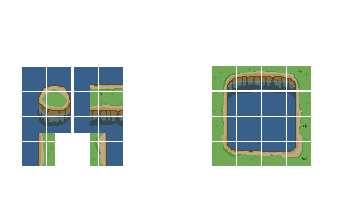
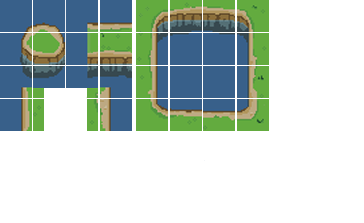
[Noa] trying some things

diff --git a/mylib/src/Tiles.cpp b/mylib/src/Tiles.cpp
@@ -1,6 +1,48 @@
 #include "Tiles.h"
 
-TilesMap::TilesMap(const MapRepresentation& repr) : m_width(0), m_height(0)
+MapRepresentation repr = {
+    "HHHHHHHHHHHHHHHHHHHHHHHHHHHHHHHHHHHHHHHHHHHHHHHHHHHHHHHHHHHHHHHHHHHHHHHHHHHHHHHHHHHHHHHHHHHH"
+  , "HHHHHHHHHHHHHHHHHHHHHHHHHHHHHHHHHHHHHHHHHHHHHHHHHHHHHHHHHHHHHHHHHHHHHHHHHHHHHHHHHHHHHHHHHHHH"
+  , "HHHHHHHHHHHHHHHHHHHHHHHHHHHHHHHHHHHHHHHHHHHHHHHHHHHHHHHHHHHHHHHHHHHHHHHHHHHHHHHHHHHHHHHHHHHH"
+  , "HHHHHHHHHHHHHHHHHHHHHHHHHHHHHHHHHHHHHHHHHHHHHHHHHHHHHHHHHHHHHHHHHHHHHHHHHHHHHHHHHHHHHHHHHHHH"
+  , "HHHHHHHHHHHHHHHHHHHHHHHHHHHHHHHHHHHHHHHHHHHHHHHHHHHHHHHHHHHHHHHHHHHHHHHHHHHHHHHHHHHHHHHHHHHH"
+  , "HHHHHHHHHHHHHHHHHHHHHHHHHHHHHHHHHHHHHHHHHHHHHHHHHHHHHHHHHHHHHHHHHHHHHHHHHHHHHHHHHHHHHHHHHHHH"
+  , "HHHHHHHHHHHHHHHHHHHHHHHHHHHHHHHHHHHHHHHHHHHHHHHHHHHHHHHHHHHHHHHHHHHHHHHHHHHHHHHHHHHHHHHHHHHH"
+  , "HHHHHHHHHHHHHHHHHHHHHHHHHHHHHHHHHHHHHHHHHHHHHHHHHHHHHHHHHHHHHHHHHHHHHHHHHHHHHHHHHHHHHHHHHHHH"
+  , "HHHHHHHHHHHHHHHHHHHHHHHHHHHHHHHHHHHHHHHHHHHHHHHHHHHHHHHHHHHHHHHHHHHHHHHHHHHHHHHHHHHHHHHHHHHH"
+  , "HHHHHHHHHHHHHHHHHHHHHHHHHHHHHHHHHHHHHHHHHHHHHHHHHHHHHHHHHHHHHHHHHHHHHHHHHHHHHHHHHHHHHHHHHHHH"
+  , "HHHHHHHHHHHHHHHHHHHHHHHHHHHHHHHHHHHHHHHHHHHHHHHHHHHHHHHHHHHHHHHHHHHHHHHHHHHHHHHHHHHHHHHHHHHH"
+  , "HHHHHHHHHHHHHHHHHHHHHHHHHHHHHHHHHHHHHHHHHHHHHHHHHHHHHHHHHHHHHHHHHHHHHHHHHHHHHHHHHHHHHHHHHHHH"
+  , "HHHHHHHHHHHHHHHHHHHHHHHHHHHHHHHHHHHHHHHHHHHHHHHHHHHHHHHHHHHHHHHHHHHHHHHHHHHHHHHHHHHHHHHHHHHH"
+  , "HHHHHHHHHHHHHHHHHHHHHHHHHHHHHHHHHHHHHHHHHHHHHHHHHHHHHHHHHHHHHHHHHHHHHHHHHHHHHHHHHHHHHHHHHHHH"
+  , "HHHHHHHHHHHHHHHHHHHHHHHHHHHHHHHHHHHHHHHHHHHHHHHHHHHHHHHHHHHHHHHHHHHHHHHHHHHHHHHHHHHHHHHHHHHH"
+  , "HHHHHHHHHHHHHHHHHHHHHHHHHHHHHHHHHHHHHHHHHHHHHHHHHHHHHHHHHHHHHHHHHHHHHHHHHHHHHHHHHHHHHHHHHHHH"
+  , "HHHHHHHHHHHHHHHHHHHHHHHHHHHHHHHHHHHHHHHHHHHHHHHHHHHHHHHHHHHHHHHHHHHHHHHHHHHHHHHHHHHHHHHHHHHH"
+  , "HHHHHHHHHHHHHHHHHHHHHHHHHHHHHHHHHHHHHHHHHHHHHHHHHHHHHHHHHHHHHHHHHHHHHHHHHHHHHHHHHHHHHHHHHHHH"
+  , "HHHHHHHHHHHHHHHHHHHHHHHHHHHHHHHHHHHHHHHHHHHHHHHHHHHHHHHHHHHHHHHHHHHHHHHHHHHHHHHHHHHHHHHHHHHH"
+  , "HHHHHHHHHHHHHHHHHHHHHHHHHHHHHHHHHHHHHHHHHHHHHHHHHHHHHHHHHHHHHHHHHHHHHHHHHHHHHHHHHHHHHHHHHHHH"
+  , "HHHHHHHHHHHHHHHHHHHHHHHHHHHHHHHHHHHHHHHHHHHHHHHHHHHHHHHHHHHHHHHHHHHHHHHHHHHHHHHHHHHHHHHHHHHH"
+  , "HHHHHHHHHHHHHHHHHHHHHHHHHHHHHHHHHHHHHHHHHHHHHHHHHHHHHHHHHHHHHHHHHHHHHHHHHHHHHHHHHHHHHHHHHHHH"
+  , "HHHHHHHHHHHHHHHHHHHHHHHHHHHHHHHHHHHHHHHHHHHHHHHHHHHHHHHHHHHHHHHHHHHHHHHHHHHHHHHHHHHHHHHHHHHH"
+  , "HHHHHHHHHHHHHHHHHHHHHHHHHHHHHHHHHHHHHHHHHHHHHHHHHHHHHHHHHHHHHHHHHHHHHHHHHHHHHHHHHHHHHHHHHHHH"
+  , "HHHHHHHHHHHHHHHHHHHHHHHHHHHHHHHHHHHHHHHHHHHHHHHHHHHHHHHHHHHHHHHHHHHHHHHHHHHHHHHHHHHHHHHHHHHH"
+  , "HHHHHHHHHHHHHHHHHHHHHHHHHHHHHHHHHHHHHHHHHHHHHHHHHHHHHHHHHHHHHHHHHHHHHHHHHHHHHHHHHHHHHHHHHHHH"
+  , "HHHHHHHHHHHHHHHHHHHHHHHHHHHHHHHHHHHHHHHHHHHHHHHHHHHHHHHHHHHHHHHHHHHHHHHHHHHHHHHHHHHHHHHHHHHH"
+  , "HHHHHHHHHHHHHHHHHHHHHHHHHHHHHHHHHHHHHHHHHHHHHHHHHHHHHHHHHHHHHHHHHHHHHHHHHHHHHHHHHHHHHHHHHHHH"
+  , "HHHHHHHHHHHHHHHHHHHHHHHHHHHHHHHHHHHHHHHHHHHHHHHHHHHHHHHHHHHHHHHHHHHHHHHHHHHHHHHHHHHHHHHHHHHH"
+  , "HHHHHHHHHHHHHHHHHHHHHHHHHHHHHHHHHHHHHHHHHHHHHHHHHHHHHHHHHHHHHHHHHHHHHHHHHHHHHHHHHHHHHHHHHHHH"
+  , "HHHHHHHHHHHHHHHHHHHHHHHHHHHHHHHHHHHHHHHHHHHHHHHHHHHHHHHHHHHHHHHHHHHHHHHHHHHHHHHHHHHHHHHHHHHH"
+  , "HHHHHHHHHHHHHHHHHHHHHHHHHHHHHHHHHHHHHHHHHHHHHHHHHHHHHHHHHHHHHHHHHHHHHHHHHHHHHHHHHHHHHHHHHHHH"
+};
+
+void View::update()
+{
+    float factor = 0.01f;
+    posX = (1.f - factor) * posX + factor * targetX;
+    posY = (1.f - factor) * posY + factor * targetY;
+}
+
+TilesMap::TilesMap(const MapRepresentation& repr)
 {
     m_width = static_cast<int>(repr[0].size());
     m_height = static_cast<int>(repr.size());
@@ -15,16 +57,15 @@ TilesMap::TilesMap(const MapRepresentation& repr) : m_width(0), m_height(0)
             getTile(row, col) = repr[row][col];
         }
     }
-
-    m_texture.loadFromFile("map/herbe.png");
-    }
+    m_texture.loadFromFile("map\\herbe.png");
+}
 
 sf::Vector2i TilesMap::getTileCoordinateInTexture(const TileType& tile)
 {
     static std::map<TileType, sf::Vector2i> tileMap = {
-        {'H', {0,  0} }
-      , {'F', {0,  3} }
-      , {'T', {12, 6} }
+        {'H', {5,  2} }
+      //, {'F', {0,  3} }
+      //, {'T', {12, 6} }
     };
 
     auto it = tileMap.find(tile);

diff --git a/mylib/include/Map.h b/mylib/include/Map.h
@@ -2,63 +2,6 @@
 
 #include "Tiles.h"
 
-using MapRepresentation = std::vector<std::string>;
-MapRepresentation repr = {
-    "TTTTTTHHHHHHHHHHHHHHHHHHHHHHHHHHHHHHHHHHHHHHHHHHHHHHHHHHHHHHHHHHHHHHHHHHHHHHHHHHHHHHHHHHHHHH"
-  , "TTHHHHHFHHHHHHHHHHHHHHHHHHHHHHHHHHHHHHHHHHHHHHHHHHHHHHHHHHHHHHHHHHHHHHHHHHHHHHHHHHHHHHHHHHHH"
-  , "THHFHHHHHHHHHHHHHHHHHHHHHHHHHHHHHHHHHHHHHHHHHHHHHHHHHHHHHHHHHHHHHHHHHHHHHHHHHHHHHHHHHHHHHHHH"
-  , "TTHHHHHHHHHHHHHHHHHHHHHHHHHHHHHHHHHHHHHHHHHHHHHHHHHHHHHHHHHHHHHHHHHHHHHHHHHHHHHHHHHHHHHHHHHH"
-  , "THHHHHHHHHHHHHHHHHHHHHHHHHHHHHHHHHHHHHHHHHHHHHHHHHHHHHHHHHHHHHHHHHHHHHHHHHHHHHHHHHHHHHHHHHHH"
-  , "THHHHHHHFHHHHHHHHHHHHHHHHHHHHHHHHHHHHHHHHHHHHHHHHHHHHHHHHHHHHHHHHHHHHHHHHHHHHHHHHHHHHHHHHHHH"
-  , "THHHHHHHHHHHHHHHHHHHHHHHHHHHHHHHHHHHHHHHHHHHHHHHHHHHHHHHHHHHHHHHHHHHHHHHHHHHHHHHHHHHHHHHHHHH"
-  , "THHHHHHHHHHHHHHHHHHHHHHHHHHHHHHHHHHHHHHHHHHHHHHHHHHHHHHHHHHHHHHHHHHHHHHHHHHHHHHHHHHHHHHHHHHH"
-  , "HHHHHHHHHHHHHHHHHHHHHHHHHHHHHHHHHHHHHHHHHHHHHHHHHHHHHHHHHHHHHHHHHHHHHHHHHHHHHHHHHHHHHHHHHHHH"
-  , "HHHHHHHHHHHHHHHHHHHHHHHHHHHHHHHHHHHHHHHHHHHHHHHHHHHHHHHHHHHHHHHHHHHHHHHHHHHHHHHHHHHHHHHHHHHH"
-  , "HHHHHHHHHHHHHHHHHHHHHHHHHHHHHHHHHHHHHHHHHHHHHHHHHHHHHHHHHHHHHHHHHHHHHHHHHHHHHHHHHHHHHHHHHHHH"
-  , "HHHHHHHHHHHHHHHHHHHHHHHHHHHHHHHHHHHHHHHHHHHHHHHHHHHHHHHHHHHHHHHHHHHHHHHHHHHHHHHHHHHHHHHHHHHH"
-  , "HHHHHHHHHHHHHHHHHHHHHHHHHHHHHHHHHHHHHHHHHHHHHHHHHHHHHHHHHHHHHHHHHHHHHHHHHHHHHHHHHHHHHHHHHHHH"
-  , "HHHHHHHHHHHHHHHHHHHHHHHHHHHHHHHHHHHHHHHHHHHHHHHHHHHHHHHHHHHHHHHHHHHHHHHHHHHHHHHHHHHHHHHHHHHH"
-  , "HHHHHHHHHHHHHHHHHHHHHHHHHHHHHHHHHHHHHHHHHHHHHHHHHHHHHHHHHHHHHHHHHHHHHHHHHHHHHHHHHHHHHHHHHHHH"
-  , "HHHHHHHHHHHHHHHHHHHHHHHHHHHHHHHHHHHHHHHHHHHHHHHHHHHHHHHHHHHHHHHHHHHHHHHHHHHHHHHHHHHHHHHHHHHH"
-  , "HHHHHHHHHHHHHHHHHHHHHHHHHHHHHHHHHHHHHHHHHHHHHHHHHHHHHHHHHHHHHHHHHHHHHHHHHHHHHHHHHHHHHHHHHHHH"
-  , "HHHHHHHHHHHHHHHHHHHHHHHHHHHHHHHHHHHHHHHHHHHHHHHHHHHHHHHHHHHHHHHHHHHHHHHHHHHHHHHHHHHHHHHHHHHH"
-  , "HHHHHHHHHHHHHHHHHHHHHHHHHHHHHHHHHHHHHHHHHHHHHHHHHHHHHHHHHHHHHHHHHHHHHHHHHHHHHHHHHHHHHHHHHHHH"
-  , "HHHHHHHHHHHHHHHHHHHHHHHHHHHHHHHHHHHHHHHHHHHHHHHHHHHHHHHHHHHHHHHHHHHHHHHHHHHHHHHHHHHHHHHHHHHH"
-  , "HHHHHHHHHHHHHHHHHHHHHHHHHHHHHHHHHHHHHHHHHHHHHHHHHHHHHHHHHHHHHHHHHHHHHHHHHHHHHHHHHHHHHHHHHHHH"
-  , "HHHHHHHHHHHHHHHHHHHHHHHHHHHHHHHHHHHHHHHHHHHHHHHHHHHHHHHHHHHHHHHHHHHHHHHHHHHHHHHHHHHHHHHHHHHH"
-  , "HHHHHHHHHHHHHHHHHHHHHHHHHHHHHHHHHHHHHHHHHHHHHHHHHHHHHHHHHHHHHHHHHHHHHHHHHHHHHHHHHHHHHHHHHHHH"
-  , "HHHHHHHHHHHHHHHHHHHHHHHHHHHHHHHHHHHHHHHHHHHHHHHHHHHHHHHHHHHHHHHHHHHHHHHHHHHHHHHHHHHHHHHHHHHH"
-  , "HHHHHHHHHHHHHHHHHHHHHHHHHHHHHHHHHHHHHHHHHHHHHHHHHHHHHHHHHHHHHHHHHHHHHHHHHHHHHHHHHHHHHHHHHHHH"
-  , "HHHHHHHHHHHHHHHHHHHHHHHHHHHHHHHHHHHHHHHHHHHHHHHHHHHHHHHHHHHHHHHHHHHHHHHHHHHHHHHHHHHHHHHHHHHH"
-  , "HHHHHHHHHHHHHHHHHHHHHHHHHHHHHHHHHHHHHHHHHHHHHHHHHHHHHHHHHHHHHHHHHHHHHHHHHHHHHHHHHHHHHHHHHHHH"
-  , "HHHHHHHHHHHHHHHHHHHHHHHHHHHHHHHHHHHHHHHHHHHHHHHHHHHHHHHHHHHHHHHHHHHHHHHHHHHHHHHHHHHHHHHHHHHH"
-  , "HHHHHHHHHHHHHHHHHHHHHHHHHHHHHHHHHHHHHHHHHHHHHHHHHHHHHHHHHHHHHHHHHHHHHHHHHHHHHHHHHHHHHHHHHHHT"
-  , "HHHHHHHHHHHHHHHHHHHHHHHHHHHHHHHHHHHHHHHHHHHHHHHHHHHHHHHHHHHHHHHHHHHHHHHHHHHHHHHHHHHHHHHHHFFT"
-  , "HHHHHHHHHHHHHHHHHHHHHHHHHHHHHHHHHHHHHHHHHHHHHHHHHHHHHHHHHHHHHHHHHHHHHHHHHHHHHHHHHHHHHHHHHFFT"
-  , "HHHHHHHHHHHHHHHHHHHHHHHHHHHHHHHHHHHHHHHHHHHHHHHHHHHHHHHHHHHHHHHHHHHHHHHHHHHHHHHHHHHHHHHHTTTT"
-};
-
-
-
-class View
-{
-public:
-    View(float width_, float height_, float posX_, float posY_) : width(width_), height(height_), posX(posX_), posY(posY_), targetX(posX_), targetY(posY_)
-    {}
-
-    void update();
-
-public:
-    float width;
-    float height;
-    float posX;
-    float posY;
-    float targetX;
-    float targetY;
-    float scale = 1.0f;
-};
-
-
 //class MapLayer
 //{
 //public:

diff --git a/mylib/include/Tiles.h b/mylib/include/Tiles.h
@@ -6,6 +6,29 @@
 
 #include "Map.h"
 #include "SceneBase.h"
+#include "TextureManager.h"
+
+using MapRepresentation = std::vector<std::string>;
+
+class View
+{
+public:
+    View(float width_, float height_, float posX_, float posY_) : width(width_), height(height_), posX(posX_), posY(posY_), targetX(posX_), targetY(posY_)
+    {
+    }
+
+    void update();
+
+public:
+    float width;
+    float height;
+    float posX;
+    float posY;
+    float targetX;
+    float targetY;
+    float scale = 1.0f;
+};
+
 
 class TilesMap
 {
@@ -28,8 +51,8 @@ private:
 
     sf::Texture m_texture;
 
-    int m_width;
-    int m_height;
+    int m_width = 0;
+    int m_height = 0;
     int m_tileSize;
 };
 

diff --git a/mylib/src/Hero.cpp b/mylib/src/Hero.cpp
@@ -47,7 +47,7 @@ void Hero::loadTextures()
     TextureManager& texManager = TextureManager::getInstance();
 
     if (!texManager.hasTexture("player")) 
-        texManager.loadTexture("player", "hero/player.png");
+        texManager.loadTexture("player", "hero\\player.png");
 }
 
 void Hero::initializeAnimations()

diff --git a/mylib/include/Hero.h b/mylib/include/Hero.h
@@ -28,7 +28,7 @@ public:
     ~Hero() = default;
 
     void initialize(const sf::Vector2f& position, const float& size,
-        const sf::Color& color, const float& speed);
+    const sf::Color& color, const float& speed);
 
     void loadTextures();
     void initializeAnimations();

diff --git a/mylib/src/Map.cpp b/mylib/src/Map.cpp
@@ -1,8 +1,2 @@
 #include "Map.h"
 
-void View::update()
-{
-    float factor = 0.01f;
-    posX = (1.f - factor) * posX + factor * targetX;
-    posY = (1.f - factor) * posY + factor * targetY;
-}
